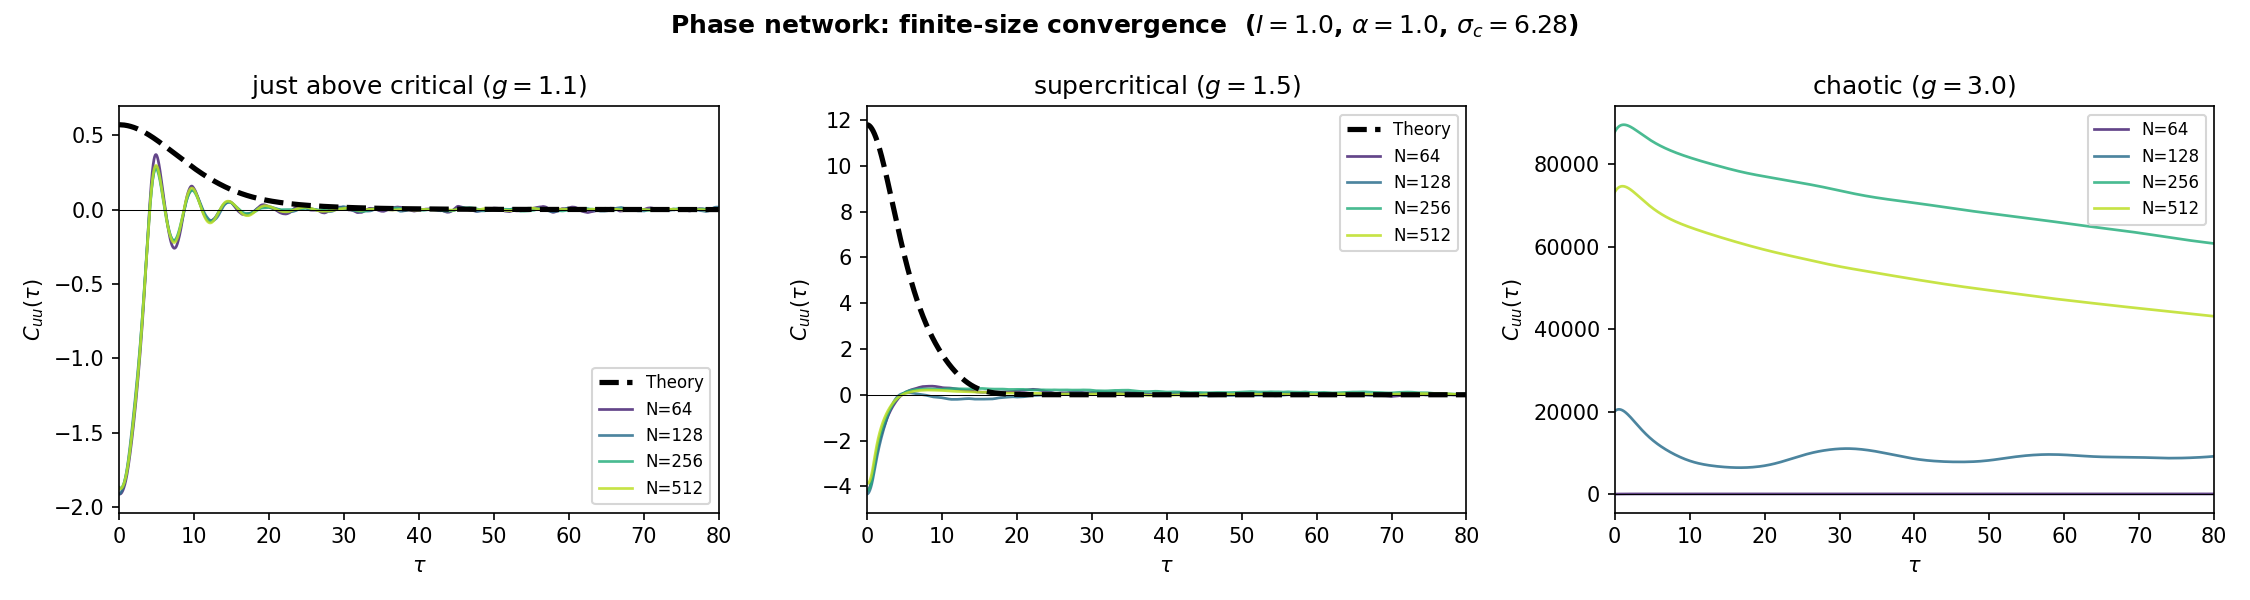
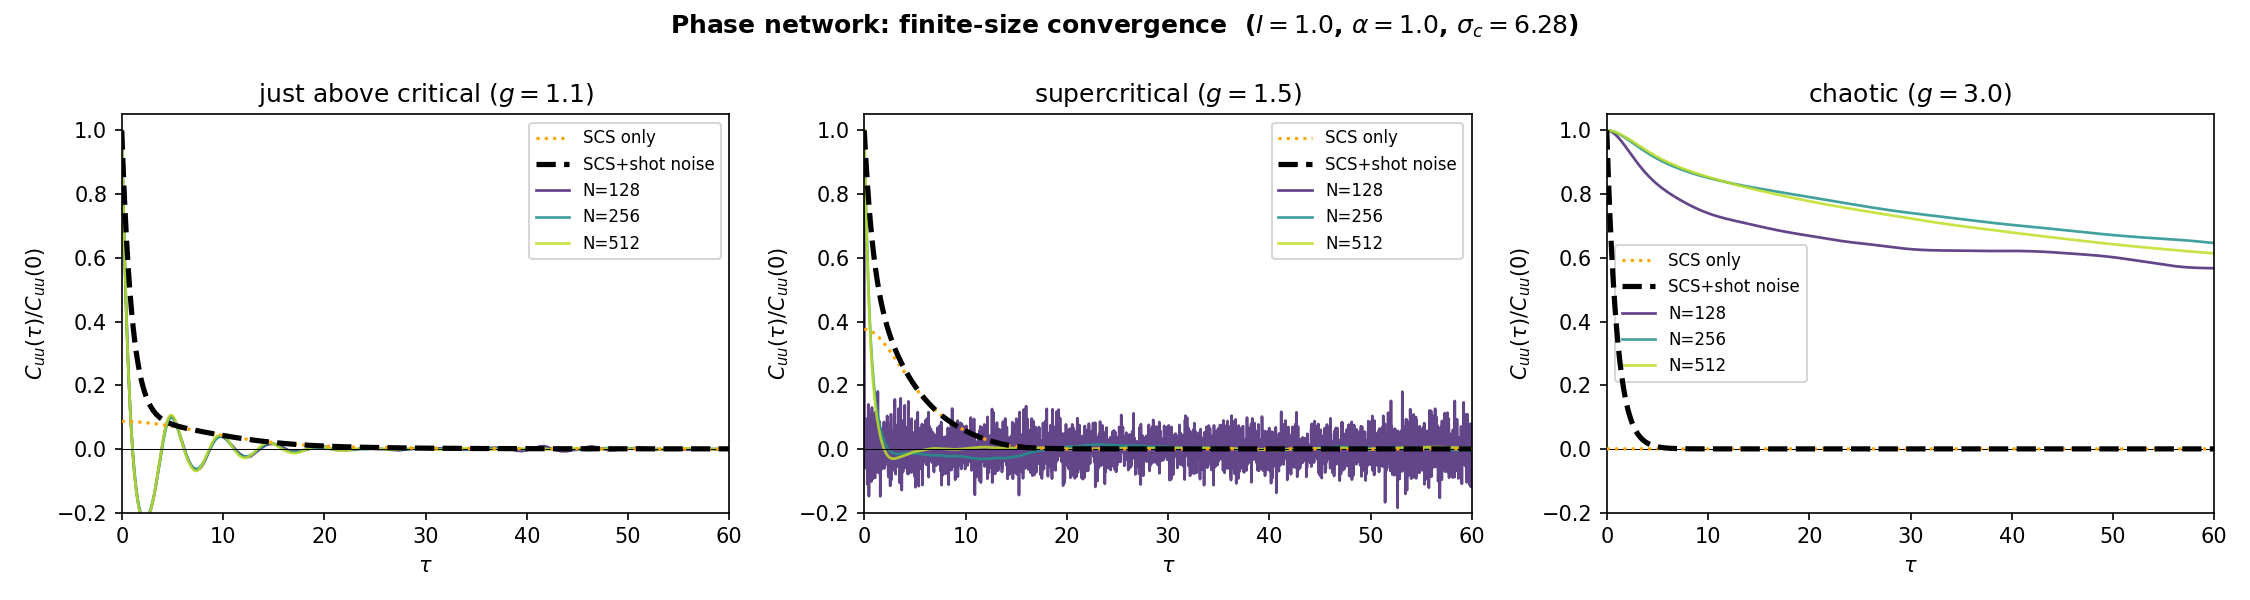
fix one thing break 2 others

diff --git a/scripts/random_network.py b/scripts/random_network.py
@@ -342,8 +342,10 @@ def sim_phase_network(
             R_pop[t] = np.mean(spikes.astype(float)) / dt
 
     max_lag = int(tau_max / dt)
+    # Average per-neuron autocorrelation: matches C_SCS(tau) at long lags (tau >> 1/beta)
+    # where shot noise has decayed. At tau~0 includes shot noise contribution.
     C = np.mean([autocorr(U_probe[:, i], max_lag) for i in range(n_probe)], axis=0)
-    tau = np.arange(len(C)) * dt  # Use actual length of C
+    tau = np.arange(len(C)) * dt
     if not return_spike:
         return tau, C
 
@@ -406,7 +408,32 @@ def theory_phase_autocorr(
         mu_f=mu_g,
     )
 
-    return tau_s / beta_val, C, sigma_c
+    # --- Shot noise correction (2PI, Sec. 4.1) ---
+    # Point-process spikes carry an intrinsic shot-noise term in their two-time
+    # correlation: Q(t,s) = Q_SCS(t,s) + D_shot * delta(t-s), where
+    #   D_shot = sigma^2 * rho * <F(u)>.
+    # Filtering through the exponential synaptic kernel h(tau)=beta*exp(-beta*tau)
+    # converts this to an additive contribution to C_11(tau):
+    #   C_shot(tau) = (beta/2) * D_shot * exp(-beta*|tau|)
+    # <F(u)> (and hence D_shot) must be evaluated self-consistently at the TOTAL
+    # C_11(0) = C_SCS(0) + C_shot(0), because u is driven by the full spike train.
+    tau_out = tau_s / beta_val
+    C0_SCS = float(C[0])
+    C0_total = C0_SCS  # initial guess; iterate to fixed point
+    for _ in range(60):
+        C_shot_0 = float(
+            shot_noise_correction(
+                np.array([0.0]), sigma, beta_val, I, alpha, C0_total, n_quad
+            )[0]
+        )
+        C0_new = C0_SCS + C_shot_0
+        if abs(C0_new - C0_total) < 1e-10 * max(1.0, C0_total):
+            break
+        C0_total = 0.5 * (C0_total + C0_new)  # damped fixed-point update
+    C_shot = shot_noise_correction(tau_out, sigma, beta_val, I, alpha, C0_total, n_quad)
+    C = C + C_shot
+
+    return tau_out, C, sigma_c
 
 
 def shot_noise_correction(tau, sigma, beta, I, alpha, C0_total, n_quad=24):
@@ -638,14 +665,22 @@ def plot_phase_network(
             C_runs.append(C_run)
         C_s = np.mean(C_runs, axis=0)
 
-        ax.plot(tau_s, C_s, "b", lw=1.5, alpha=0.85, label=f"Sim ({sim_reps} runs)")
-        # Only show theory where a valid SCS fixed point was found (C0 > threshold)
-        if C_th is not None and C_th[0] > 1e-2:
-            ax.plot(tau_th, C_th, "r--", lw=2, label="2PI theory")
+        C_s_norm = C_s / C_s[0] if C_s[0] > 0 else C_s
+        has_theory = C_th is not None and C_th[0] > 1e-2
+        if has_theory:
+            # Recover the SCS-only curve: C_SCS = C_full - C_shot
+            # (shot noise was evaluated self-consistently at C_th[0])
+            C_shot_th = shot_noise_correction(tau_th, sigma, beta, I, alpha, C_th[0])
+            C_SCS_norm = (C_th - C_shot_th) / C_th[0]
+            C_th_norm = C_th / C_th[0]
+            ax.plot(tau_th, C_SCS_norm, color="orange", lw=1.5, ls=":", label="SCS only", zorder=2)
+            ax.plot(tau_th, C_th_norm, "r--", lw=2, label="SCS+shot noise", zorder=3)
+        ax.plot(tau_s, C_s_norm, "b", lw=1.5, alpha=0.85, label=f"Sim ({sim_reps} runs)", zorder=2)
         ax.axhline(0, color="k", lw=0.5)
         ax.set(
             xlabel=r"$\tau$",
-            ylabel=r"$C_{uu}(\tau)$",
+            ylabel=r"$C_{uu}(\tau) / C_{uu}(0)$",
+            ylim=(-0.2, 1.05),
             title=fr"$\sigma={sigma:.2f}$, $g={g_val:.2f}$",
             xlim=(0, tau_max),
         )
@@ -1788,13 +1823,19 @@ def plot_phase_corr_params(
             C_runs.append(C_run)
         C_s = np.mean(C_runs, axis=0)
 
-        ax.plot(tau_s, C_s, "b", lw=1.5, alpha=0.85, label="Sim")
-        # Only show theory where a valid SCS fixed point was found (C0 > threshold)
-        if C_th is not None and C_th[0] > 1e-2:
-            ax.plot(tau_th, C_th, "r--", lw=2, label="2PI theory")
+        C_s_norm = C_s / C_s[0] if C_s[0] > 0 else C_s
+        has_theory = C_th is not None and C_th[0] > 1e-2
+        if has_theory:
+            C_shot_th = shot_noise_correction(tau_th, sigma_, beta_, I_, alpha_, C_th[0])
+            C_SCS_norm = (C_th - C_shot_th) / C_th[0]
+            C_th_norm = C_th / C_th[0]
+            ax.plot(tau_th, C_SCS_norm, color="orange", lw=1.5, ls=":", label="SCS only", zorder=2)
+            ax.plot(tau_th, C_th_norm, "r--", lw=2, label="SCS+shot noise", zorder=3)
+        ax.plot(tau_s, C_s_norm, "b", lw=1.5, alpha=0.85, label="Sim", zorder=2)
         ax.axhline(0, color="k", lw=0.5)
         ax.set(
-            xlabel=r"$\tau$", ylabel=r"$C_{uu}(\tau)$",
+            xlabel=r"$\tau$", ylabel=r"$C_{uu}(\tau) / C_{uu}(0)$",
+            ylim=(-0.2, 1.05),
             title=label, xlim=(0, tau_max),
         )
         ax.legend(fontsize=8)
@@ -1870,7 +1911,11 @@ def plot_phase_corr_N(
                 I=I, alpha=alpha, sigma=sig, beta=beta, tau_max=tau_max, dtau=dt,
             )
             if C_th[0] > 1e-2:
-                ax.plot(tau_th, C_th, "k--", lw=2.5, zorder=5, label="Theory")
+                C_shot_th = shot_noise_correction(tau_th, sig, beta, I, alpha, C_th[0])
+                C_SCS_norm = (C_th - C_shot_th) / C_th[0]
+                C_th_norm = C_th / C_th[0]
+                ax.plot(tau_th, C_SCS_norm, color="orange", lw=1.5, ls=":", zorder=5, label="SCS only")
+                ax.plot(tau_th, C_th_norm, "k--", lw=2.5, zorder=6, label="SCS+shot noise")
         except Exception as e:
             print(f"  theory failed: {e}")
 
@@ -1880,11 +1925,13 @@ def plot_phase_corr_N(
                 N=N, I=I, alpha=alpha, sigma=sig, beta=beta,
                 T=T, dt=dt, tau_max=tau_max, n_probe=N,
             )
-            ax.plot(tau_s, C_s, lw=1.3, color=color, alpha=0.85, label=f"N={N}")
+            C_s_norm = C_s / C_s[0] if C_s[0] > 0 else C_s
+            ax.plot(tau_s, C_s_norm, lw=1.3, color=color, alpha=0.85, label=f"N={N}")
 
         ax.axhline(0, color="k", lw=0.5)
         ax.set(
-            xlabel=r"$\tau$", ylabel=r"$C_{uu}(\tau)$",
+            xlabel=r"$\tau$", ylabel=r"$C_{uu}(\tau) / C_{uu}(0)$",
+            ylim=(-0.2, 1.05),
             title=rlabel, xlim=(0, tau_max),
         )
         ax.legend(fontsize=8)

diff --git a/make_phase_plots.py b/make_phase_plots.py
@@ -1,0 +1,68 @@
+"""Generate phase model comparison plots with shot noise correction."""
+import sys
+import os
+sys.path.insert(0, 'scripts')
+import matplotlib
+matplotlib.use('Agg')
+import numpy as np
+
+from random_network import (
+    plot_phase_corr_params,
+    plot_phase_corr_N,
+    plot_phase_network,
+    theory_phase_autocorr,
+)
+
+plot_dir = os.path.join(os.getcwd(), 'data', 'plots')
+os.makedirs(plot_dir, exist_ok=True)
+
+I, alpha, beta = 1.0, 1.0, 1.0
+_, _, sigma_c = theory_phase_autocorr(
+    I=I, alpha=alpha, sigma=1.0, beta=beta, tau_max=5, dtau=0.1
+)
+print(f'sigma_c = {sigma_c:.4f}')
+
+# ------------------------------------------------------------------
+# 1. Parameter dependence: 3 sigma values
+# ------------------------------------------------------------------
+print('\n--- plot_phase_corr_params ---')
+plot_phase_corr_params(
+    param_sets=[
+        dict(I=1.0, alpha=1.0, beta=1.0, sigma=1.1 * sigma_c,
+             label=r'$\sigma=1.1\sigma_c$'),
+        dict(I=1.0, alpha=1.0, beta=1.0, sigma=1.5 * sigma_c,
+             label=r'$\sigma=1.5\sigma_c$'),
+        dict(I=1.0, alpha=1.0, beta=1.0, sigma=2.0 * sigma_c,
+             label=r'$\sigma=2.0\sigma_c$'),
+    ],
+    N=512, T=3000.0, dt=0.02, tau_max=60.0, sim_reps=2,
+    plot_dir=plot_dir,
+)
+print('  done.')
+
+# ------------------------------------------------------------------
+# 2. Phase network across sigma
+# ------------------------------------------------------------------
+print('\n--- plot_phase_network ---')
+plot_phase_network(
+    I=I, alpha=alpha, beta=beta,
+    N=512,
+    sigma_vals=[1.1 * sigma_c, 1.5 * sigma_c, 2.0 * sigma_c],
+    T=4000.0, dt=0.02, tau_max=80.0, sim_reps=2,
+    plot_dir=plot_dir,
+)
+print('  done.')
+
+# ------------------------------------------------------------------
+# 3. N convergence
+# ------------------------------------------------------------------
+print('\n--- plot_phase_corr_N ---')
+plot_phase_corr_N(
+    N_vals=(128, 256, 512),
+    I=I, alpha=alpha, beta=beta,
+    T=3000.0, dt=0.02, tau_max=60.0,
+    plot_dir=plot_dir,
+)
+print('  done.')
+
+print(f'\nAll plots saved to {plot_dir}')
